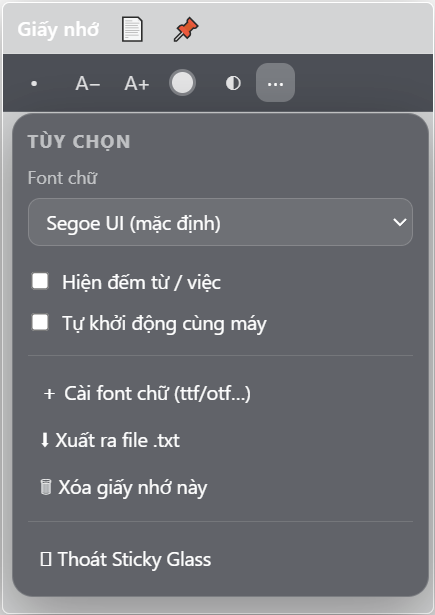
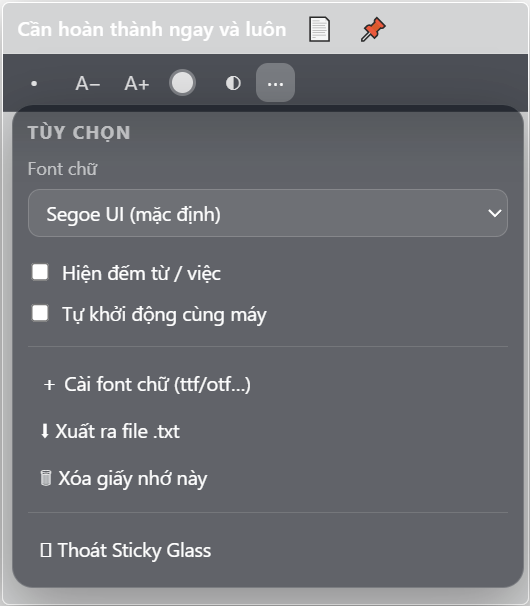
Đưa nút ghim và tờ giấy nhớ sát mép phải

diff --git a/src/renderer/styles.css b/src/renderer/styles.css
@@ -39,7 +39,7 @@ html, body {
 /* ---------- vùng kéo di chuyển + tiêu đề ---------- */
 .grip {
   display: flex; align-items: center; gap: 8px;
-  height: 34px; padding: 0 10px;
+  height: 34px; padding: 0 3px 0 10px; /* sát mép phải cho nhóm nút 📄 📌 */
   flex: none;
   border-bottom: 1px solid rgba(255, 255, 255, 0.14);
   border-radius: 5px 5px 0 0;
